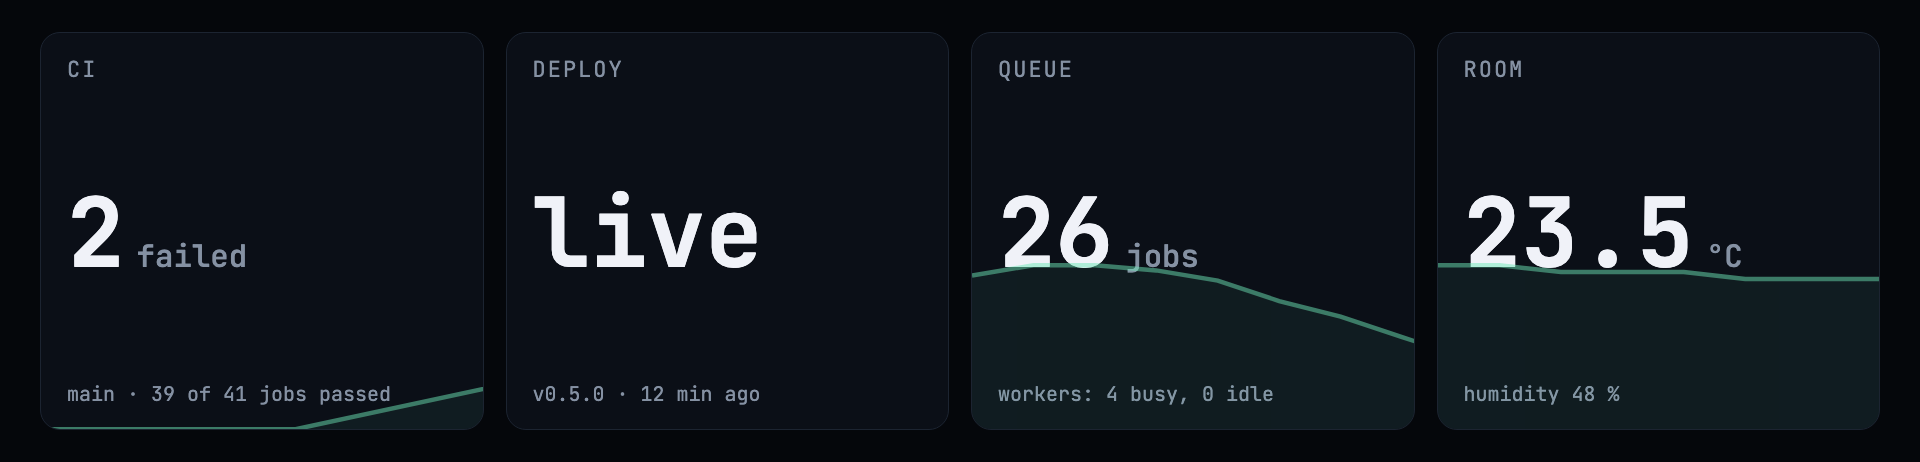
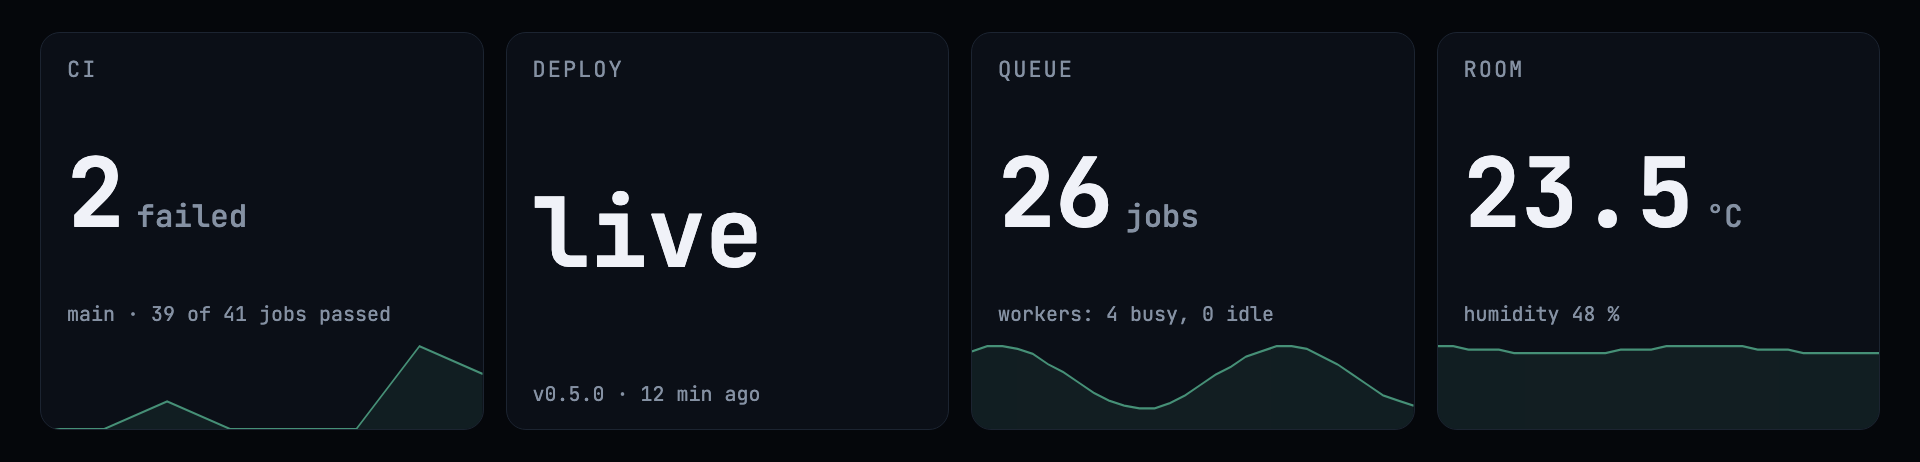
fix(site): the metrics screen's graphs fit their tiles
A graph took its width from its aspect ratio, so the newest part was cut off; it now
spans the tile, in a strip under the text so that a peak no longer runs over it. A value
with a long unit gets smaller instead of being cut off.

Claude-Session: https://claude.ai/code/session_01UEp13yFoTm29SCbbz8FBtp

diff --git a/site/public/screens/metrics/index.html b/site/public/screens/metrics/index.html
@@ -24,9 +24,16 @@
   * { box-sizing: border-box; }
   html, body { margin: 0; width: 100%; height: 100%; overflow: hidden; background: var(--bg); color: var(--text);
     font-family: 'JetBrains Mono', ui-monospace, Menlo, monospace; }
-  main { display: grid; gap: 22px; height: 100vh; padding: 32px 40px; }
+  /* The graph is a strip under the text, so a peak never runs over it. */
+  main { --graph: 90px; display: grid; gap: 22px; height: 100vh; padding: 32px 40px; }
+  main.two { --graph: 36px; }
   .tile { position: relative; display: flex; flex-direction: column; justify-content: space-between; min-width: 0;
     padding: 22px 26px; background: var(--panel); border: 1px solid var(--line); border-radius: 20px; overflow: hidden; }
+  .tile.graphed { padding-bottom: calc(var(--graph) + 12px); }
+  main.two .tile { padding: 14px 20px; }
+  main.two .tile.graphed { padding-bottom: calc(var(--graph) + 8px); }
+  main.two .head { font-size: 18px; }
+  main.two .detail { font-size: 16px; }
   .tile.stale { opacity: 0.45; }
   .head { display: flex; justify-content: space-between; gap: 12px; font-size: 22px; letter-spacing: 2px; color: var(--muted); }
   .head .age { letter-spacing: 0; }
@@ -34,7 +41,7 @@
     white-space: nowrap; overflow: hidden; }
   .value .unit { font-size: 0.32em; color: var(--muted); font-weight: 500; }
   .detail { font-size: 20px; color: var(--muted); white-space: nowrap; overflow: hidden; text-overflow: ellipsis; }
-  .graph { position: absolute; left: 0; right: 0; bottom: 0; height: 45%; opacity: 0.5; pointer-events: none; }
+  .graph { position: absolute; left: 0; bottom: 0; width: 100%; height: var(--graph); opacity: 0.6; pointer-events: none; }
   .graph path.line { fill: none; stroke: var(--mint); stroke-width: 2.5; }
   .graph path.area { fill: rgba(110, 231, 183, 0.12); stroke: none; }
   .empty { display: flex; flex-direction: column; align-items: center; justify-content: center; gap: 14px;
@@ -84,14 +91,21 @@
     const columns = Math.ceil(list.length / rows);
     main.style.gridTemplateColumns = `repeat(${columns}, 1fr)`;
     main.style.gridTemplateRows = `repeat(${rows}, 1fr)`;
-    const size = rows === 1 ? (columns <= 2 ? 150 : columns === 3 ? 120 : 96) : 64;
+    main.classList.toggle('two', rows === 2);
+    const size = rows === 1 ? (columns <= 2 ? 150 : columns === 3 ? 120 : 96) : 56;
     main.innerHTML = list.map((m) => {
       const value = m.text ?? (m.value == null ? '–' : (Math.abs(m.value) >= 100000 ? compact.format(m.value) : String(Math.round(m.value * 100) / 100)));
-      return `<div class="tile${m.stale ? ' stale' : ''}">${graph(m.text ? null : m.history)}` +
+      const drawn = graph(m.text ? null : m.history);
+      return `<div class="tile${m.stale ? ' stale' : ''}${drawn ? ' graphed' : ''}">${drawn}` +
         `<div class="head"><span>${escape(m.label).toUpperCase()}</span><span class="age">${m.stale ? age(m.age) : ''}</span></div>` +
         `<div class="value" style="font-size: ${size}px">${escape(value)}<span class="unit">${escape(m.unit)}</span></div>` +
         `<div class="detail">${escape(m.detail)}</div></div>`;
     }).join('');
+    // A long value or unit gets smaller rather than cut off.
+    for (const el of main.querySelectorAll('.value')) {
+      let px = parseFloat(el.style.fontSize);
+      while (el.scrollWidth > el.clientWidth && px > 28) el.style.fontSize = `${(px -= 4)}px`;
+    }
   }
 
   // Example figures for a browser.
